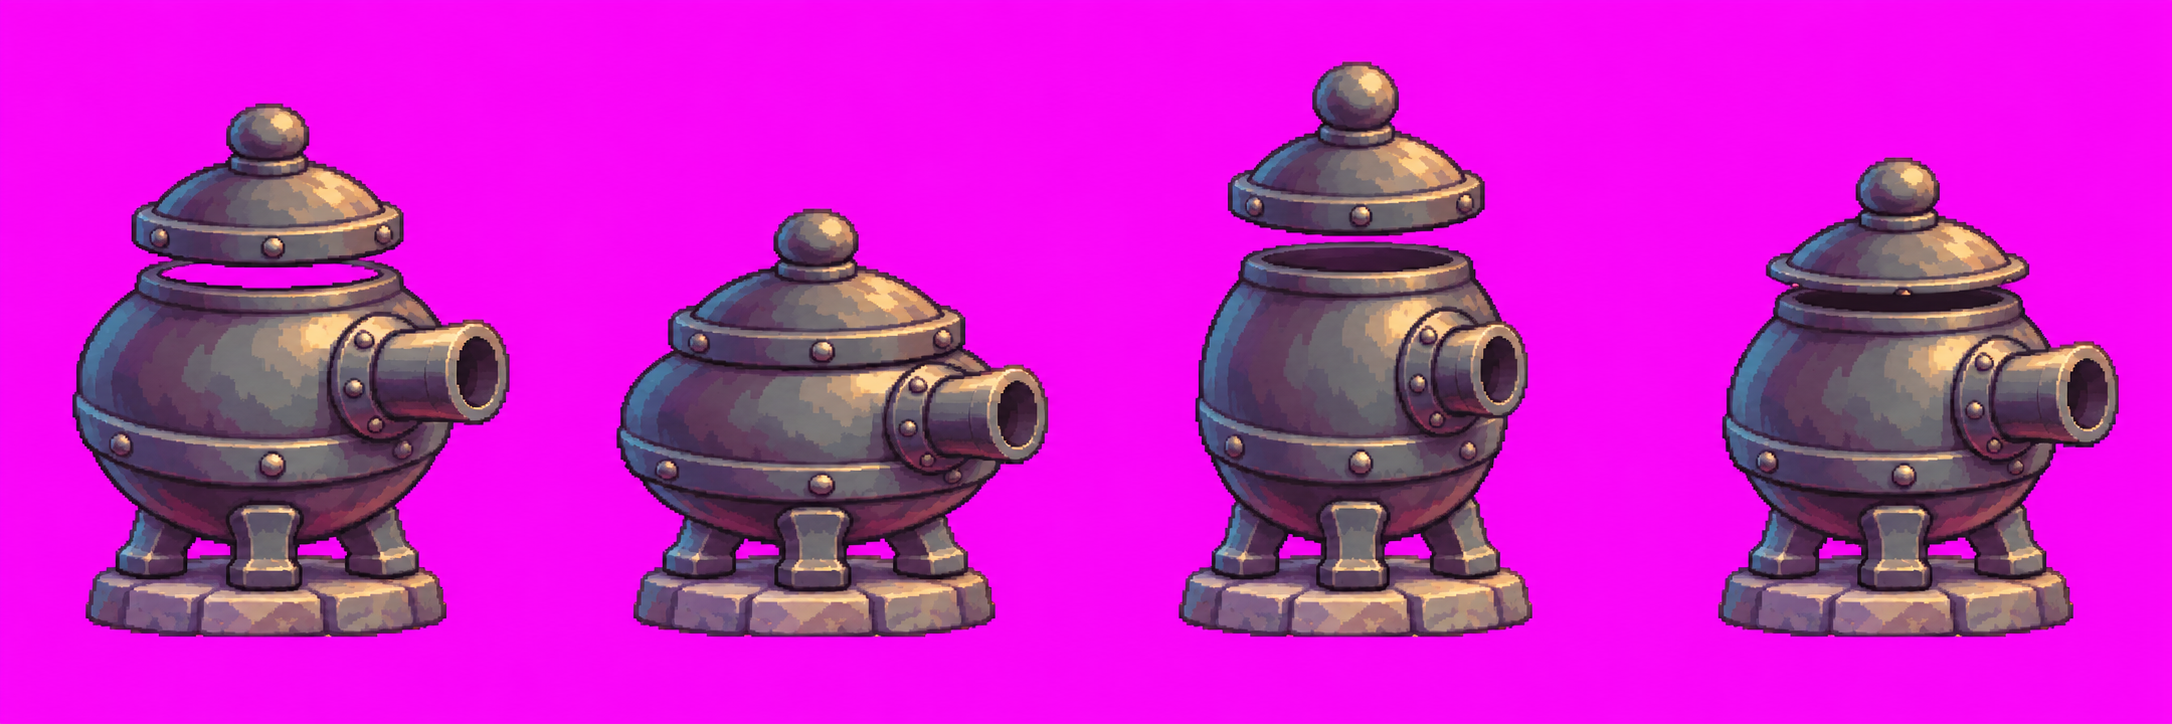
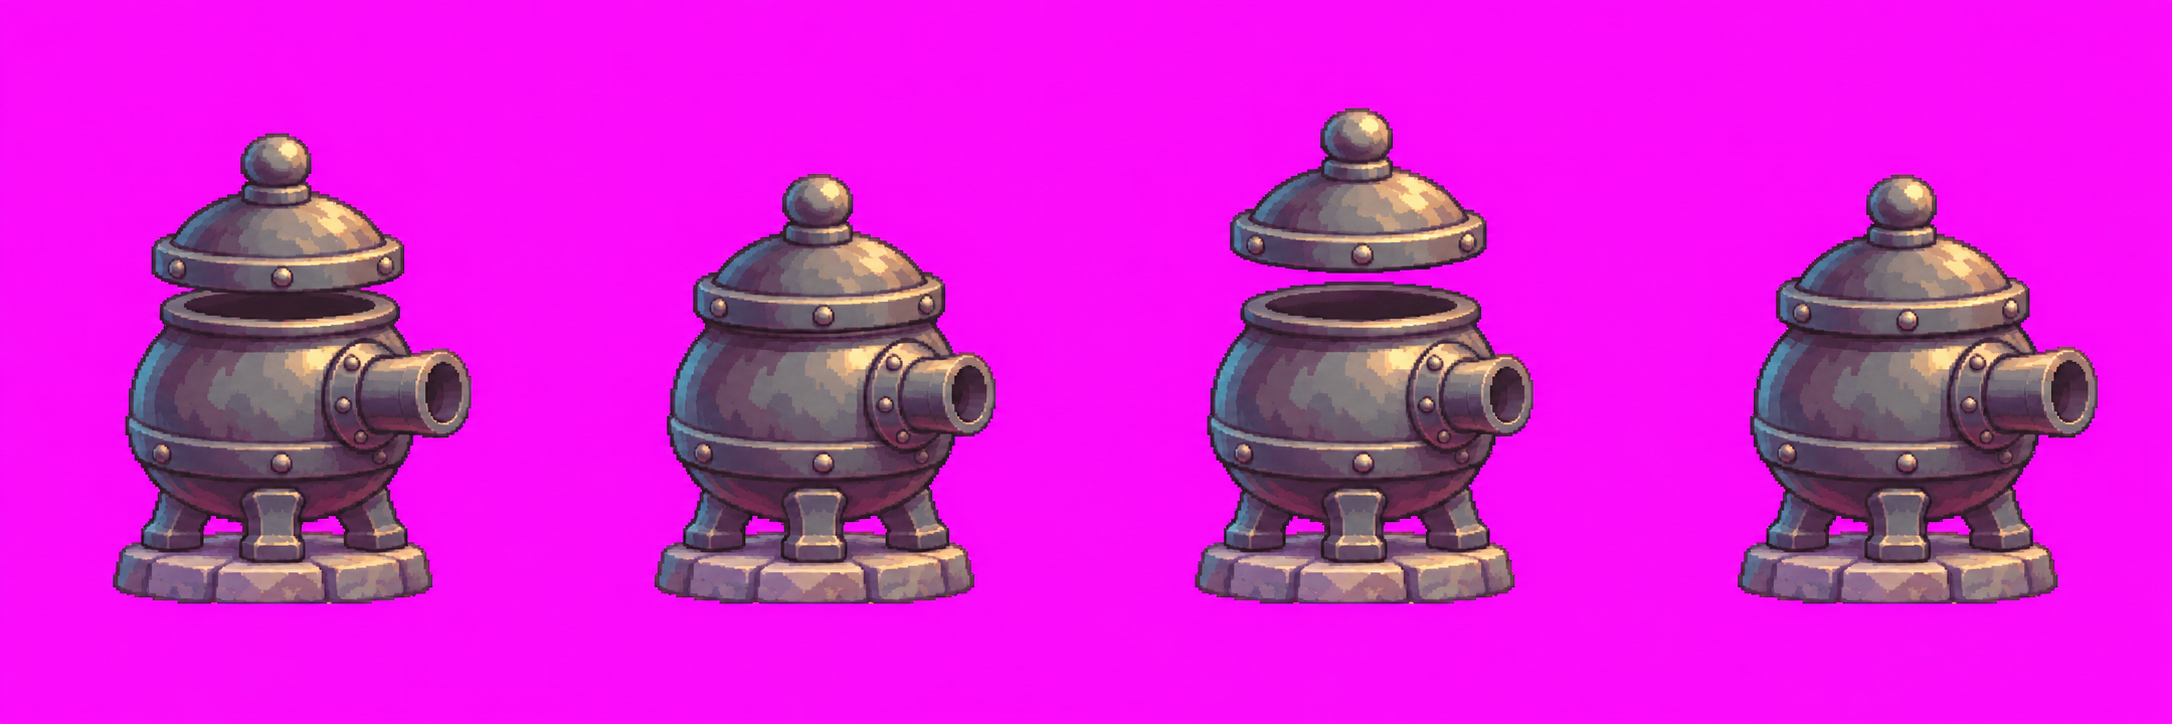
art(batch2): revise locked proportions of furnace__t1__attack.png

diff --git a/idle-td-art/batch2/ORDER-B2.md b/idle-td-art/batch2/ORDER-B2.md
@@ -1,6 +1,6 @@
 # 放置塔防第二批點陣圖：工單 B2　塔 5 種 × 3 階
 
-狀態：進行中：ChatGPT 修訂 09:35 TW 指定的六張攻擊圖；已通過 24 張保持不變
+狀態：進行中：ChatGPT 六張攻擊圖比例修訂
 （狀態只會是：待接手／進行中：<誰> <時間>／待驗收／完成通知）
 
 ## 固定流程
@@ -90,7 +90,7 @@ Redraw image B frame by frame using the tier <N> design from image A: EXACTLY th
 
 ## 交付紀錄
 
-- B2 共 30 張已交齊（15 張站立、15 張四格攻擊）；已從遠端分支讀回核對全部 SHA-256、PNG 格式與尺寸。站立為 1254×1254，攻擊為 2172×724。修改範圍僅本工單及這 30 張原圖。
+- 依 2026-11-04 09:35 TW 驗收，24 張已通過；本輪僅修訂丹爐三階、鐘塔一階、冰塔二三階的六張攻擊圖。
 - 全部圖片在本第二批專用 ChatGPT 工作對話使用 ImageGen 製作，每次均以標準圖為第一張參考。
 - 提交生成原始 PNG；不裁切、不縮放、不替換背景，不用程式繪圖。程式僅讀取尺寸與校驗檔案；各次原圖保留在工作環境。
 - 依 2026-11-04 04:25 TW 最新流程，不用停等驗收；每張推送後 fetch 意見，有意見先改。寒冰塔升階晶體需明顯變大、變藍。
@@ -109,7 +109,6 @@ Redraw image B frame by frame using the tier <N> design from image A: EXACTLY th
 | `images/crossbow__t3__attack.png` | 2172×724 | 4 | 3 階三聯金弩沿用攻擊節奏；弩具、旗幟與兩枚金羽逐格變化，無空中投射物。 |
 | `images/furnace__t2__stand.png` | 1254×1254 | 1 | 丹爐炮塔 2 階：青銅爐體、銅鉚釘與把手、加寬炮口、後方煙囪。 |
 | `images/furnace__t3__stand.png` | 1254×1254 | 1 | 丹爐炮塔 3 階：金色八卦爐、紅玉寶石、朝右龍口炮嘴、微浮爐蓋。 |
-| `images/furnace__t1__attack.png` | 2172×724 | 4 | 丹爐炮塔 1 階攻擊四格：爐體膨脹、壓低、拉長後復位，爐蓋每格起落，底座固定。 |
 | `images/furnace__t2__attack.png` | 2172×724 | 4 | 丹爐炮塔 2 階攻擊四格：青銅爐、鉚釘、環耳與煙囪，沿用 1 階擠壓與爐蓋動作。 |
 | `images/furnace__t3__attack.png` | 2172×724 | 4 | 丹爐炮塔 3 階攻擊四格：金色八卦爐、紅玉與龍口炮嘴，爐體擠壓、爐蓋起落。 |
 | `images/bell__t2__stand.png` | 1254×1254 | 1 | 雷音鐘塔 2 階：紅漆曲簷鐘亭、雕雲紋青銅鐘、魚形木槌。 |
@@ -127,6 +126,7 @@ Redraw image B frame by frame using the tier <N> design from image A: EXACTLY th
 | `images/talisman__t1__attack.png` | 2172×724 | 4 | 符咒塔 1 階攻擊四格：三張黃符後揚、抬起、向右展扇與回落；紙根維持連接。 |
 | `images/talisman__t2__attack.png` | 2172×724 | 4 | 符咒塔 2 階攻擊四格：六張黃符後揚、抬起、右展、回落；已修正初稿符紙缺張。 |
 | `images/talisman__t3__attack.png` | 2172×724 | 4 | 符咒塔 3 階攻擊四格：兩排黃紫符紙共八張，後揚、抬起、右展與回落；毛筆與流蘇起伏。 |
+| `images/furnace__t1__attack.png` | 2172×724 | 4 | 09:35 返工修正版：爐身、三足與底座固定，只動爐蓋與炮口；第 4 格關蓋回站立。 |
 
 原檔 SHA-256：
 
@@ -142,7 +142,6 @@ Redraw image B frame by frame using the tier <N> design from image A: EXACTLY th
[7 lines of base64/hex data omitted]
@@ -160,6 +159,7 @@ Redraw image B frame by frame using the tier <N> design from image A: EXACTLY th
[4 lines of base64/hex data omitted]
 
 ## 意見與待辦
 
